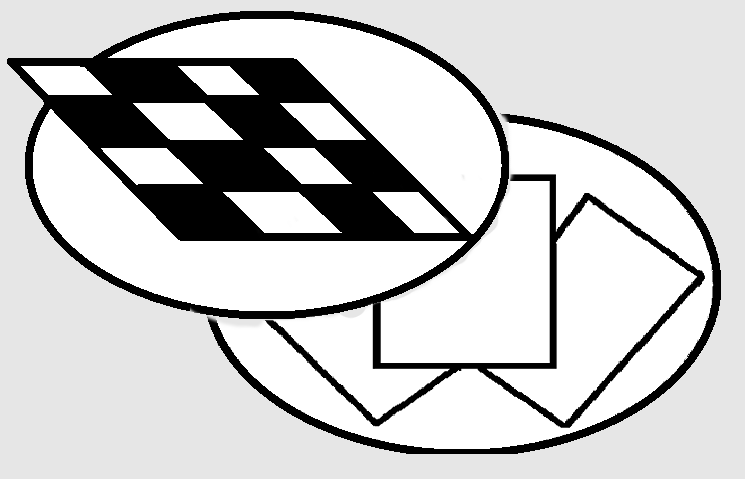
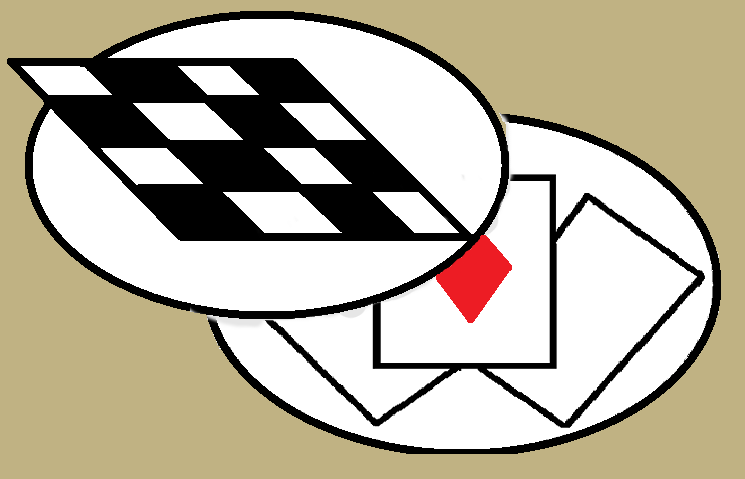
Did some css on main screen

diff --git a/client/stylesheets/stylesheets.css b/client/stylesheets/stylesheets.css
@@ -18,6 +18,7 @@ body, html {
   margin: 0;
   padding: 0;
   border-radius: 0;
+  background-color: #373737;
 }
 
 section.shrinktabs {
@@ -101,7 +102,7 @@ div.well {
 
 .tictactoe_button_about {
   background: url(/images/tic-tac-toe.gif) 3px 5px no-repeat;
-  background-size: 100%% 100%;
+  background-size: 100% 100%;
   padding-left: 870px;
   padding-top: 260px;
   width: 60%;
@@ -123,26 +124,25 @@ section#playArea {
 section#main {
   font-family: 'Macondo', cursive;
   font-size: 150%;
-  background-color: white;
+  background-color: #F4F4F4;
 }
 
 section#image {
   width: 100%;
   height: 700px;
-  background-image: url(/images/TabletopHD_Resize.png);
-  background-repeat: no-repeat;
-  background-size: 100% 100%;
+  background: url(/images/TabletopHD_Resize.png);
+  background-repeat: repeat;
 }
 
 section.mainRectangles {
   width: 100%;
-  height: 300px;
-  background-color: #e6e6e6;
+  background-color: #C0B283;
+  height: 500px;
 }
 
 section.mainRectanglesNoBack {
   width: 100%;
-  height: 300px;
+  height: 500px;
 }
 
 #games {
@@ -173,5 +173,22 @@ section#welcomeInfo {
   position: relative;
   top: 45%;
   left: 40%;
+  transform: translate(-50%, -50%);
+}
+
+div#overlay {
+  background: rgba(0,0,0, 0.7);
+  width: 100%;
+  height: 700px;
+}
+
+img.logo {
+  width: 75px;
+}
+
+img#mainPageLogo {
+  position: relative;
+  top: 50%;
+  left: 50%;
   transform: translate(-50%, -50%);
 }

diff --git a/client/templates/main.htm b/client/templates/main.htm
@@ -1,11 +1,16 @@
 <section id="main">
   <section id="image">
-
+      <div id="overlay"><img src="/images/mainPageLogo.png" id="mainPageLogo"></img></div>
   </section>
   <section class="mainRectangles">
     <div class="tab-content">
       <section id="welcomeInfo">
         <h1>Welcome to Tabletop Games!</h1>
+        <br>
+        <br>
+        <hr>
+        <br>
+        <br>
         <p>Tabletop Games is a 3D board and card game simulator. Play against AI in a 3D environment!</p>
       </section>
       <img src="/images/boardandcard.png" class="welcomeIcons"></img>

diff --git a/client/templates/navbar_logged.htm b/client/templates/navbar_logged.htm
@@ -6,7 +6,7 @@
         <span class="icon-bar"></span>
         <span class="icon-bar"></span>
       </button>
-      <a class="navbar-brand" href="#home">Tabletop</a>
+      <a class="navbar-brand" href="#home"><img src="/images/logo.png" class="logo"></img></a>
     </div>
     <div class="collapse navbar-collapse" id="myNavbar">
       <ul class="nav navbar-nav navbar-right">

diff --git a/client/templates/navbar_nologged.htm b/client/templates/navbar_nologged.htm
@@ -6,7 +6,7 @@
         <span class="icon-bar"></span>
         <span class="icon-bar"></span>
       </button>
-      <a class="navbar-brand" href="#home">Tabletop</a>
+      <a class="navbar-brand" href="#home"><img src="/images/logo.png" class="logo"></img></a>
     </div>
     <div class="collapse navbar-collapse" id="myNavbar">
       <ul class="nav navbar-nav navbar-right">
